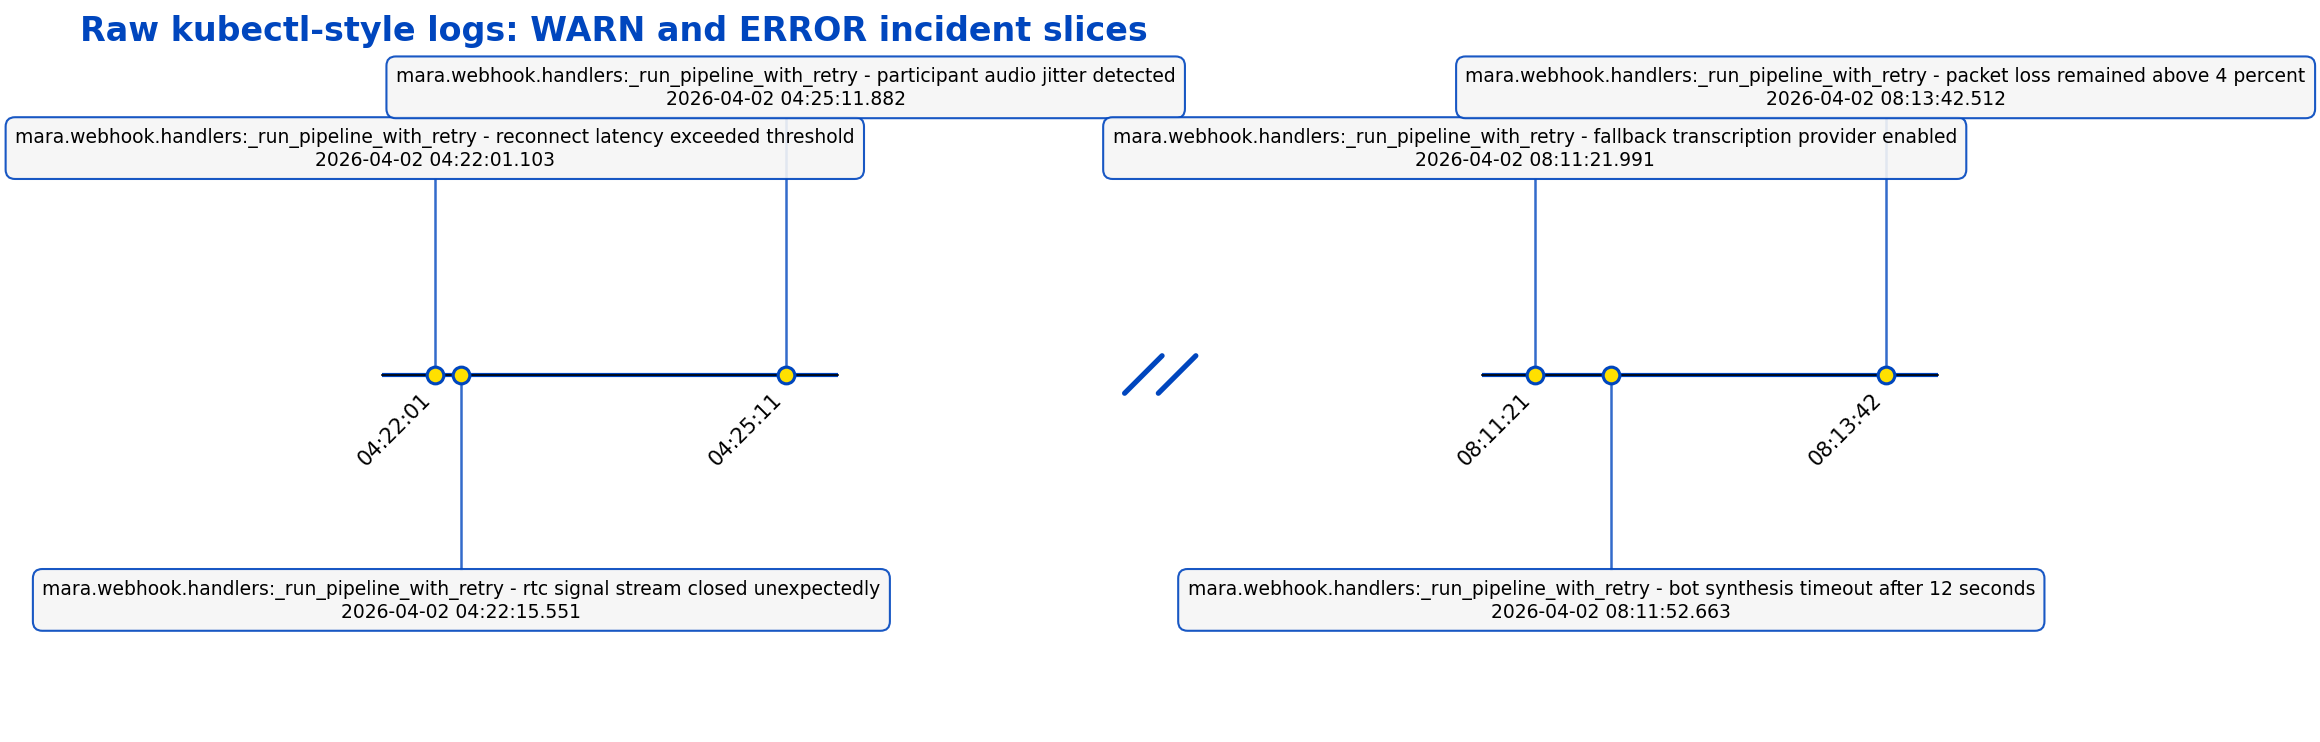
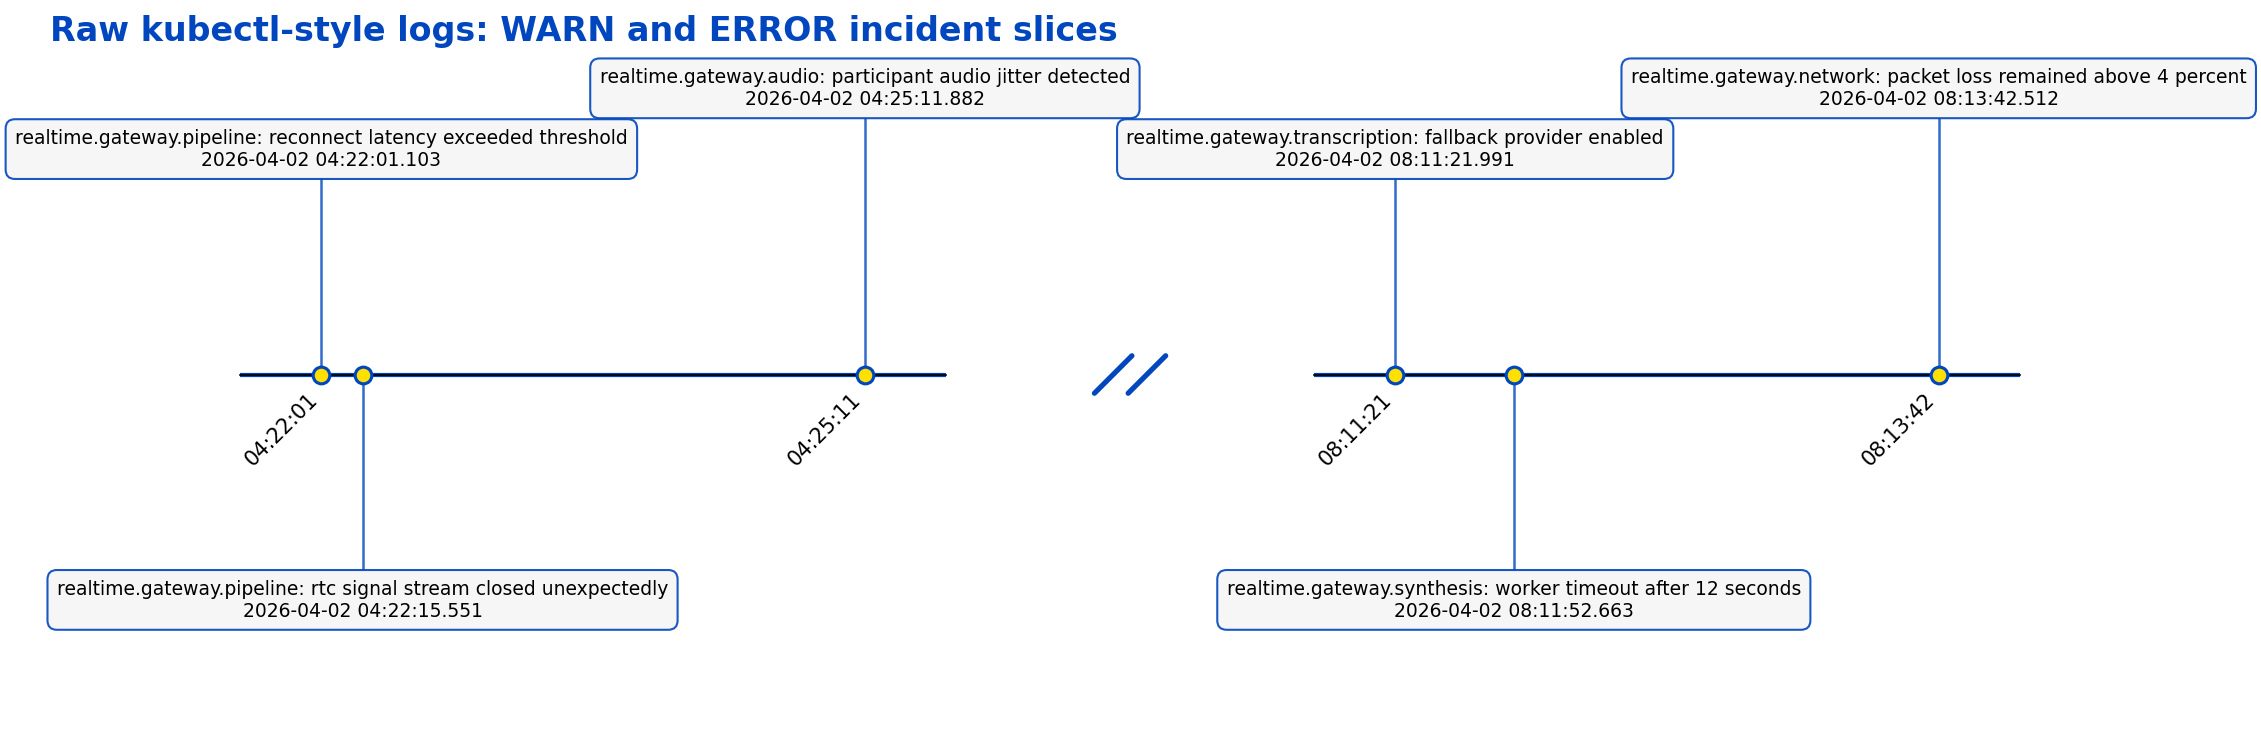
Make raw kubectl examples generic

diff --git a/README.md b/README.md
@@ -100,7 +100,7 @@ Omit the input path or pass `-` to read from stdin. This works for wide CSV mode
 For plain-text logs, `timelineviz` can also parse common timestamp-first log lines directly in `--event-log` mode:
 
 ```bash
-kubectl logs -n mara deploy/mara-webhook-server --tail=80 --timestamps \
+kubectl logs -n app-namespace deploy/my-service --tail=80 --timestamps \
   | timelineviz --event-log --raw-log-format auto \
     --log-include INFO WARN ERROR --output-dir timelines --no-show
 ```
